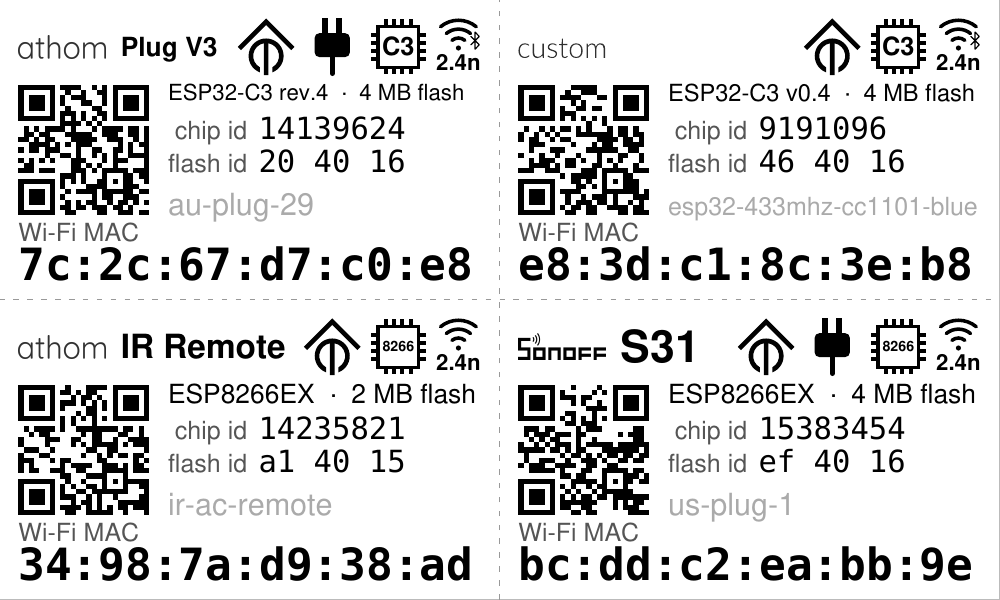
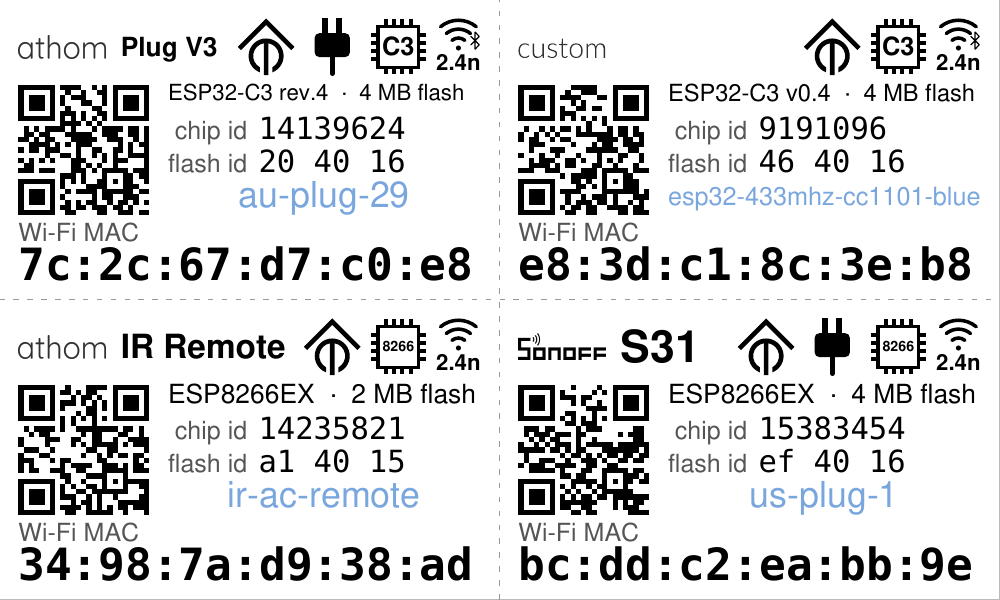
docs: the Tasmota examples with the blue host name; the sheet in colour
The sheet was saved greyscale, which turned the host name grey; it is
now a 32-colour palette PNG, which is also smaller.

Claude-Session: https://claude.ai/code/session_01PBYpeR32kHxmN65GqkGhJx

diff --git a/docs/examples/render_tasmota.py b/docs/examples/render_tasmota.py
@@ -66,7 +66,9 @@ def main() -> None:
         with tempfile.TemporaryDirectory(dir=HERE) as tmp:
             ms = tasmota_micro.micro_labels(collect.load_collected(args.data))
             page = render_page(ms, 150, tmp)
-            page.convert("L").save(HERE / "tasmota-sheet.png", optimize=True)
+            # a palette, not greyscale: the host name is printed in colour
+            page.convert("RGB").quantize(colors=32).save(HERE / "tasmota-sheet.png",
+                                                         optimize=True)
             print(f"tasmota-sheet.png, {len(ms)} labels")
 
 
